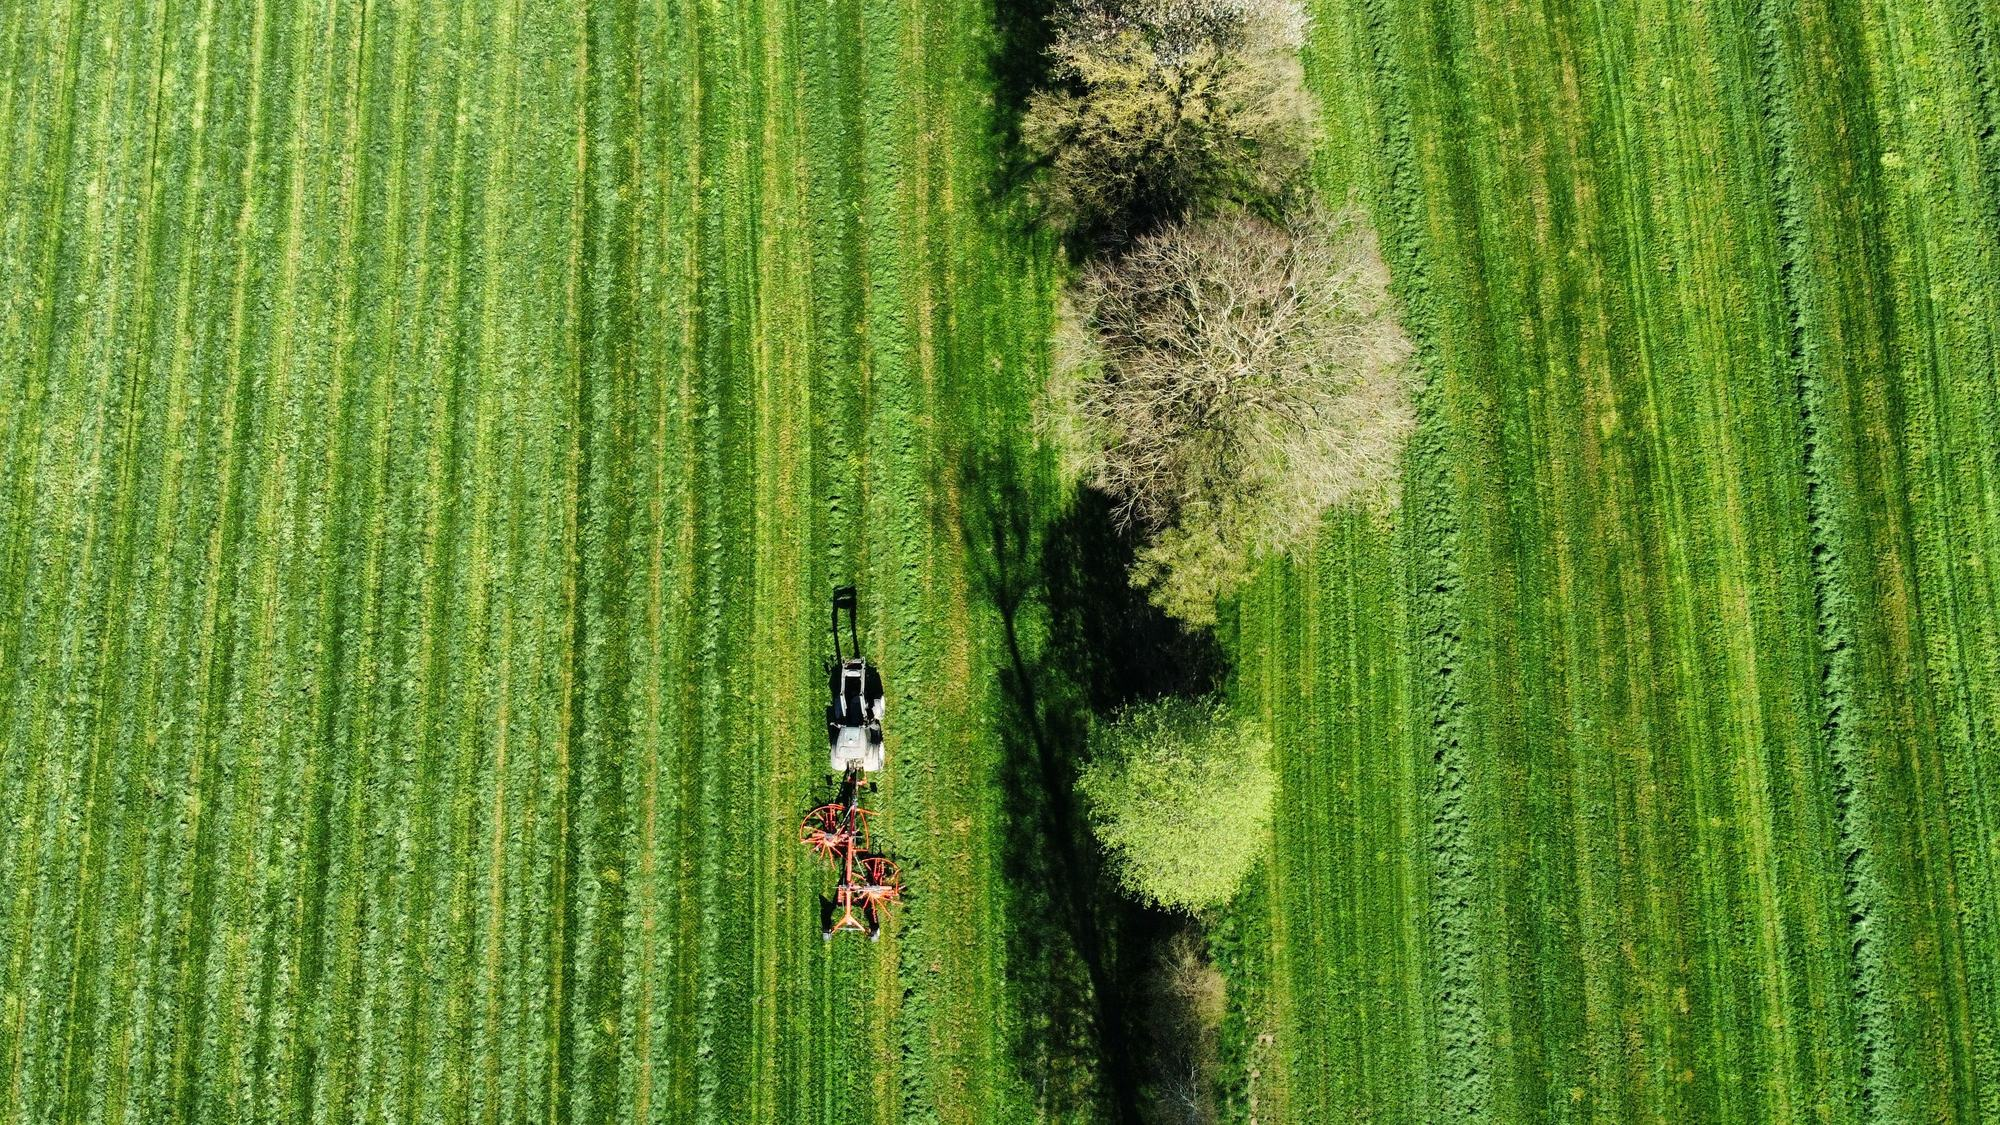
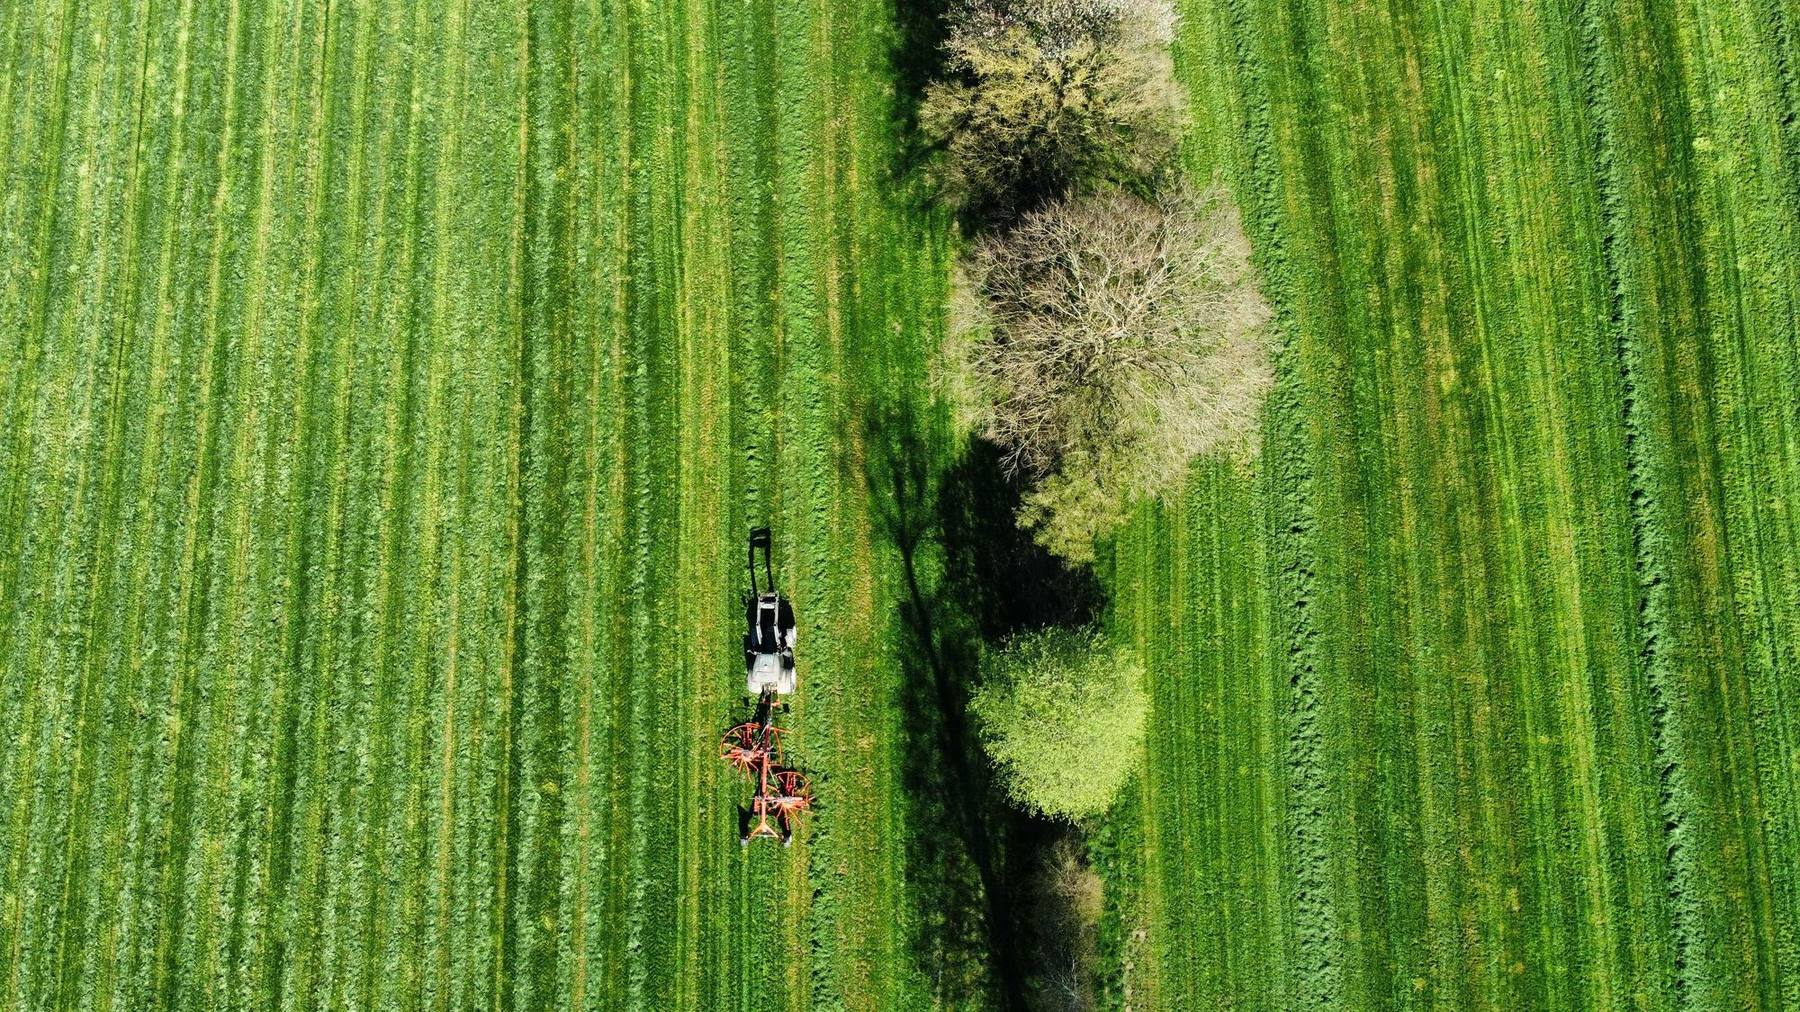
Final polish + docs: gate demo contracts, lighter hero, clearer README
- Financial: sales contracts (Sysco/HEB) show only on the demo farm; user farms
  get a clean empty state. Guard maxM against divide-by-zero.
- hero.jpg 744KB -> 545KB.
- README: zero-config quickstart, full env-var table, and a 'What's live vs. what's
  still to connect' matrix (weather live, assistant/auth/data mocked, optimizer +
  Stripe + Sentry to wire) pointing to supabase/CONNECT.md and optimizer/.

https://claude.ai/code/session_014KR5CEbUTi1EGoT4Cia8co

diff --git a/components/views/Financial.tsx b/components/views/Financial.tsx
@@ -3,6 +3,7 @@ import { useFarm, useApp } from "@/lib/store";
 import { useT } from "@/lib/i18n";
 import { AreaChart } from "@/components/Charts";
 import { formatMoney } from "@/lib/format";
+import { isDemoFarm } from "@/lib/demo";
 
 const FINK = [
   { l: "Projected revenue", base: 228000, s: "this season" },
@@ -21,7 +22,8 @@ export function Financial() {
   const farm = useFarm();
   const { currency } = useApp();
   const t = useT();
-  const maxM = Math.max(...farm.parcels.map((p) => p.marginPerAcre));
+  const demo = isDemoFarm(farm.id);
+  const maxM = Math.max(...farm.parcels.map((p) => p.marginPerAcre), 1);
   return (
     <div className="fade-in">
       <div className="grid grid-cols-2 lg:grid-cols-4 gap-4 mb-5">
@@ -47,15 +49,19 @@ export function Financial() {
       </div>
       <div className="card p-6">
         <h4 className="text-[15px] font-bold mb-1">{t("Sales contracts")}</h4><p className="text-xs mb-4 text-muted">{t("Committed volume vs. open")}</p>
-        <div>
-          {CONTRACTS.map((c, i) => (
-            <div key={i} className={`flex items-center gap-4 py-3 ${i > 0 ? "border-t border-line" : ""}`}>
-              <div className="flex-1"><p className="text-sm font-semibold">{t(c[0])}</p><p className="text-xs text-muted">{t(c[1])} · {t(c[2])}</p></div>
-              <div className="w-32"><div className="h-2 rounded-full overflow-hidden" style={{ background: "var(--line-soft)" }}><div className="h-full rounded-full" style={{ width: `${c[3]}%`, background: "linear-gradient(90deg,var(--green-deep),var(--green))" }} /></div></div>
-              <span className="mono text-xs font-bold w-10 text-right">{c[3]}%</span>
-            </div>
-          ))}
-        </div>
+        {demo ? (
+          <div>
+            {CONTRACTS.map((c, i) => (
+              <div key={i} className={`flex items-center gap-4 py-3 ${i > 0 ? "border-t border-line" : ""}`}>
+                <div className="flex-1"><p className="text-sm font-semibold">{t(c[0])}</p><p className="text-xs text-muted">{t(c[1])} · {t(c[2])}</p></div>
+                <div className="w-32"><div className="h-2 rounded-full overflow-hidden" style={{ background: "var(--line-soft)" }}><div className="h-full rounded-full" style={{ width: `${c[3]}%`, background: "linear-gradient(90deg,var(--green-deep),var(--green))" }} /></div></div>
+                <span className="mono text-xs font-bold w-10 text-right">{c[3]}%</span>
+              </div>
+            ))}
+          </div>
+        ) : (
+          <div className="flex items-center gap-2.5 text-sm text-muted py-2"><span className="h-2 w-2 rounded-full" style={{ background: "var(--green)" }} />{t("No contracts yet — add buyers to track committed vs. open volume.")}</div>
+        )}
       </div>
     </div>
   );

diff --git a/lib/i18n.ts b/lib/i18n.ts
@@ -112,6 +112,7 @@ export const ES: Record<string, string> = {
   "Can I sell a pen?": "¿Puedo vender un corral?",
   "Where am I losing margin?": "¿Dónde pierdo margen?",
   "Where is my margin leaking and how do I stop it?": "¿Por dónde se me escapa el margen y cómo lo detengo?",
+  "No contracts yet — add buyers to track committed vs. open volume.": "Aún no hay contratos — agrega compradores para ver volumen comprometido vs. abierto.",
   "More in the app": "Más en la app",
   "This week's schedule": "Agenda de esta semana",
   "Tap a harvest. Conflicts show in red.": "Toca una cosecha. Los conflictos salen en rojo.",

diff --git a/README.md b/README.md
@@ -70,19 +70,35 @@ rewriting the UI.
 
 ## 🚀 Getting started
 
+**It runs with zero configuration** — no keys, no database. You get the full
+demo on simulated data, with **real weather** and the **free assistant mock**.
+
 ```bash
+git clone https://github.com/frisonialessia/farmpredictor.git
+cd farmpredictor
 npm install
-npm run dev        # http://localhost:3000
-npm run build      # production build
-npm test           # engine unit tests (Vitest)
+cp .env.example .env.local   # optional — every var can stay empty
+npm run dev                  # → http://localhost:3000
 ```
 
-Optional environment variables:
+Other scripts:
 
-| Variable | Purpose |
-|---|---|
-| `ANTHROPIC_API_KEY` | enables real AI answers in the assistant (else free mock) |
-| `NEXT_PUBLIC_SITE_URL` | absolute URL for Open Graph / sitemap |
+```bash
+npm run build       # production build
+npm test            # engine unit tests (Vitest)
+npm run lint        # ESLint
+npm run typecheck   # tsc --noEmit
+```
+
+The environment variables below only **upgrade** parts of the app — none are
+required to run it (see `.env.example`):
+
+| Variable | What it turns on | If unset |
+|---|---|---|
+| `ANTHROPIC_API_KEY` | real Claude answers in the assistant | free deterministic mock |
+| `NEXT_PUBLIC_OPTIMIZER_URL` | the Python/OR-Tools optimizer (`optimizer/`) | built-in TS heuristic |
+| `NEXT_PUBLIC_SITE_URL` | absolute URL for Open Graph / sitemap | Vercel URL, else `localhost` |
+| `NEXT_PUBLIC_SENTRY_DSN` | forwards errors to Sentry | local console only |
 
 ---
 
@@ -93,10 +109,12 @@ app/            routes — landing, /dashboard, /login, /signup, /onboarding,
                 /pricing, opengraph-image, sitemap, robots, /api/assistant
 components/     Sidebar, views/ (Overview, Planner, Simulator, Operations,
                 Livestock, Financial, Activity, Digest, Assistant, …), charts
-lib/            engines (engine, risk, timing, herd, machinery, inventory),
-                repo/ (data boundary), store, i18n, weather, farmFactory, planGen
+lib/            engines (engine, risk, timing, herd, machinery, inventory,
+                cropTiming), repo/ (data boundary), permissions (RBAC), auth,
+                env, observability, store, i18n, weather, farmFactory, planGen
 data/           simulated, typed data (farms, planner, crops, livestock)
-supabase/       multi-tenant schema + RLS + seed (designed, not yet connected)
+supabase/       multi-tenant schema + RLS + seed + CONNECT.md (not yet connected)
+optimizer/      Python FastAPI + OR-Tools microservice (Phase 3, not deployed)
 ```
 
 ---
@@ -105,8 +123,33 @@ supabase/       multi-tenant schema + RLS + seed (designed, not yet connected)
 
 This is a **proof of concept with simulated data** — deliberately, to prove one
 claim convincingly: *an optimal harvest you can’t execute costs measurable
-money.* **Weather is already real** (Open-Meteo). The calculation engines are
-pure functions, ready to receive real data without UI changes.
+money.* The calculation engines are pure functions, ready to receive real data
+without UI changes.
+
+---
+
+## 🔌 What’s live vs. what’s still to connect
+
+Everything works **today, offline and free** on simulated data. Here’s exactly
+what’s real, what’s mocked, and how to wire each part for production:
+
+| Capability | Today | How to connect for real |
+|---|---|---|
+| **Weather** | 🟢 **Live** (Open-Meteo, no key) | already real |
+| **Margin / timing / economics engines** | 🟢 **Real logic** on simulated inputs | feed real data via the repository (below) |
+| **AI assistant** | 🟡 Free deterministic mock | set `ANTHROPIC_API_KEY` → Claude |
+| **Farm / parcel / market data** | 🟡 In-memory (`data/`) + your browser | swap `MemoryRepository` → `SupabaseRepository` — one file (`lib/repo/index.ts`) |
+| **Accounts & auth** | 🟡 Mock (localStorage; any email signs in) | Supabase Auth (cookie sessions + middleware) |
+| **Data persistence** | 🟡 Per-browser `localStorage` | Supabase Postgres (multi-tenant + **RLS**) |
+| **Scheduling optimizer** | 🟡 TypeScript heuristic | deploy [`optimizer/`](optimizer/) (Python + OR-Tools), set `NEXT_PUBLIC_OPTIMIZER_URL` |
+| **Payments / billing** | 🔴 UI + DB schema only | Stripe (tables already in `supabase/`) |
+| **Error tracking** | 🔴 Console only | set `NEXT_PUBLIC_SENTRY_DSN` + wire `lib/observability.ts` |
+
+**The backend is the next step, and it’s low-risk by design:** the app reads all
+domain data through one async `DataRepository` interface, so going live is mostly
+implementing `SupabaseRepository`. Follow the step-by-step
+**[Supabase connection runbook →](supabase/CONNECT.md)** (schema, RLS, auth and
+env are already written).
 
 ---
 